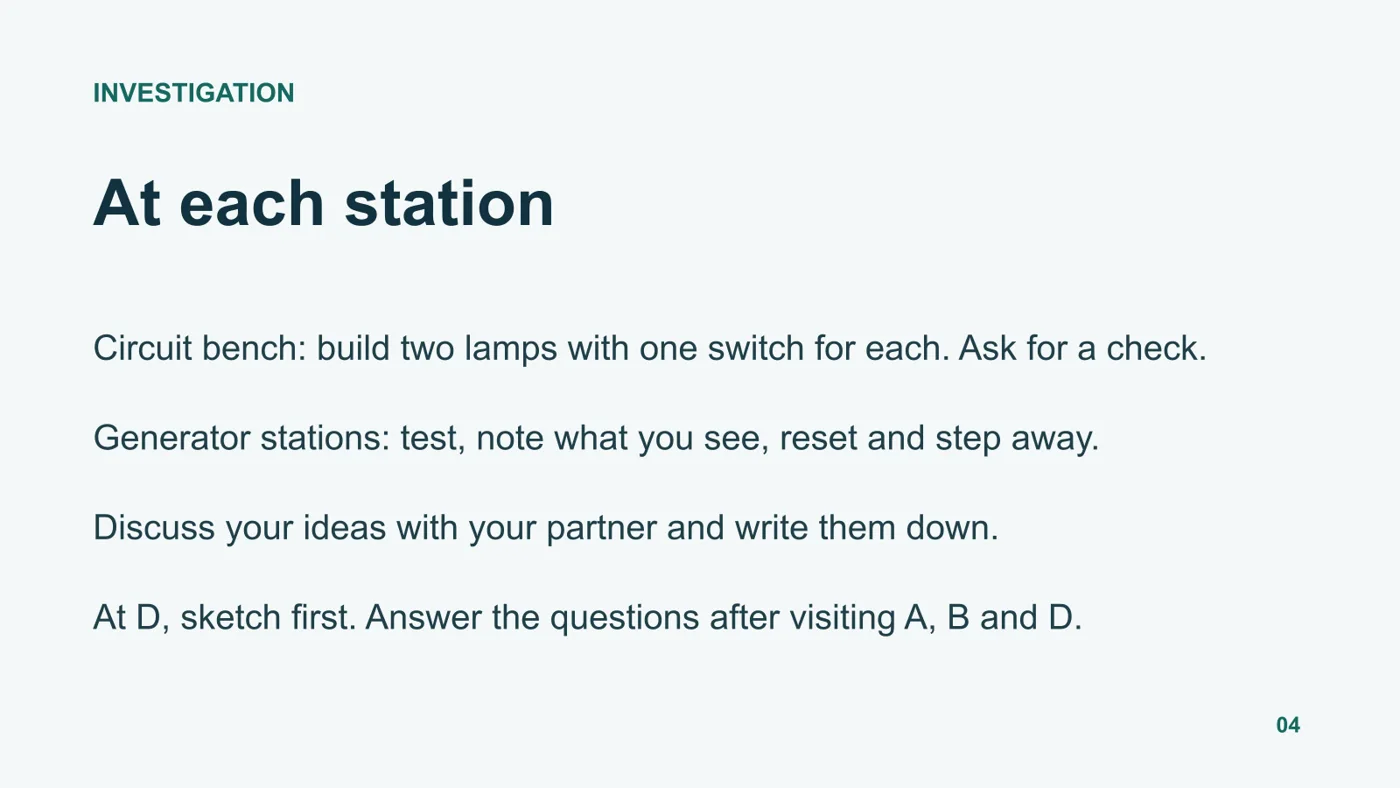
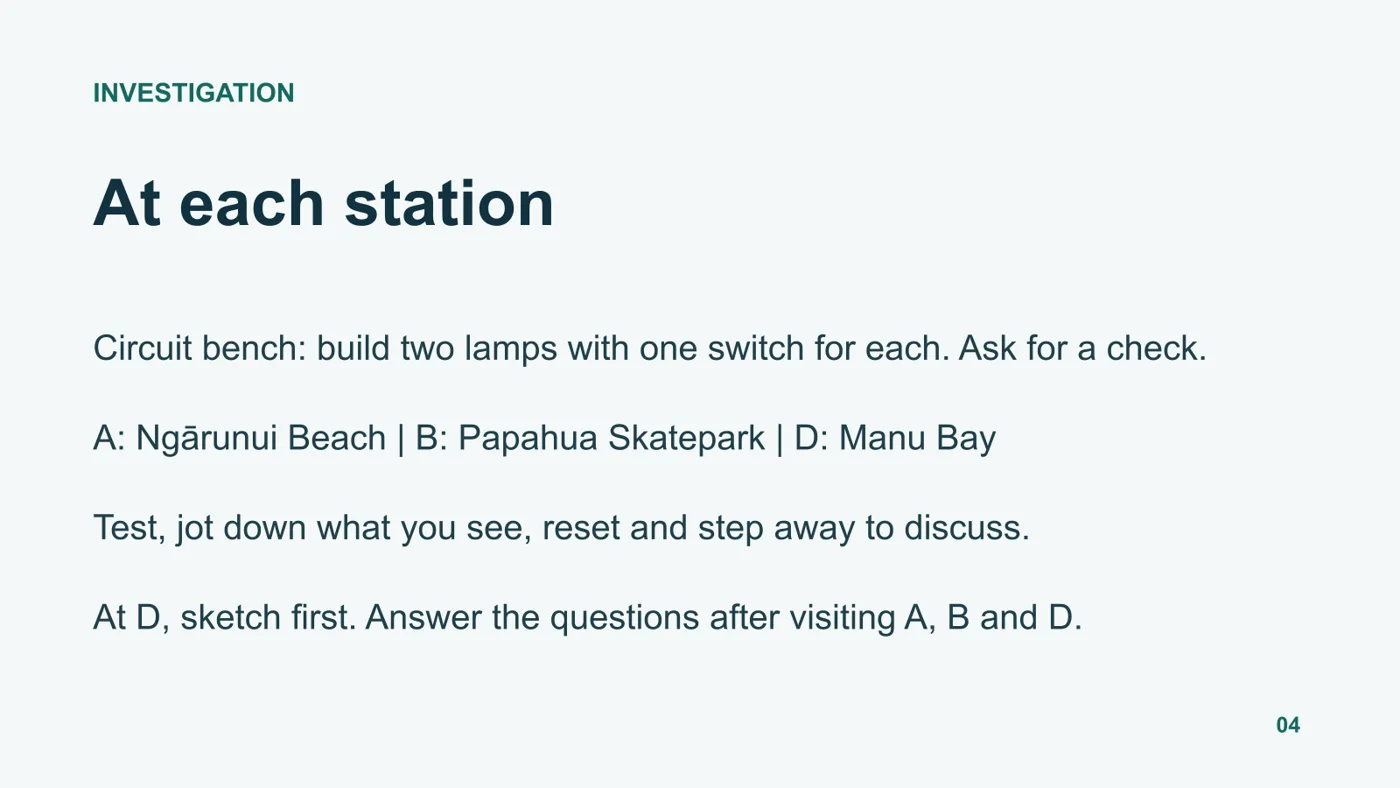
Sync ProfEx portfolio from Google Drive

Changed region(s): [[0.0614, 0.6396, 0.7371, 0.7005], [0.0614, 0.5178, 0.7986, 0.5787]]

diff --git a/doc-1TlRge3vHrb2nAxlmYoItLTyYuOJHQyqPJMQLUgPBcEo.html b/doc-1TlRge3vHrb2nAxlmYoItLTyYuOJHQyqPJMQLUgPBcEo.html
@@ -14,19 +14,19 @@
 <h2>Lesson 09: How do we generate electricity?</h2><p>Year 10 Science 1 · 11 Nov 2026 · Planned</p></div>
 <article class="native-reflection"><div class="reflection-prose"><p>Year 10 Science | 55 minutes</p>
 <h3>Learning intention</h3>
-<p>Use practical observations to explain how movement can produce a voltage.</p>
+<p>Use practical evidence to explain either how two lamps can be switched independently or how movement can produce a voltage.</p>
 <h3>Success criteria</h3>
 <ul>
-<li>Record what changes across two or more trials at each practical setup.</li>
+<li>Circuit pathway: build and test two lamps with one switch for each lamp. Generator pathway: record the meter readings at A and B.</li>
 <li>Use the opened motor to connect observations from the moving magnet and the hand-turned motor.</li>
 <li>Use one observation to explain part of how a wind turbine generates electricity.</li>
 </ul>
 <h3>Preparation</h3>
 <p>Set up and test two oscillating-magnet and coil stations with voltmeters, two DC motors connected to voltmeters, and one opened, unpowered motor. Mark each station A, B or D to match the worksheet. Secure the magnet and motor apparatus and check the meter response before class.</p>
-<p>Arrange tables away from the benches for pair discussions. Print one double-sided worksheet per pair.</p>
+<p>Arrange chairs in a semicircle. Prepare two-switch, two-lamp kits with circuit guide boards at separate benches. Check each kit and set out the existing switching worksheet and the generator worksheet.</p>
 <p>Whakataukī: E koekoe te tūī, e ketekete te kākā, e kūkū te kererū. The tūī chatters, the kākā squawks, and the kererū coos. Read it aloud. Ask pairs why the saying gives each bird a different sound and what that might say about people. Hear two interpretations.</p>
 <h3>Teaching sequence</h3>
-<table class="document-table"><tr><td><p>Teacher activity</p></td><td><p>Student activity</p></td></tr><tr><td><p>Arrival and whakataukī | 7 minPlay Tour a Wind Turbine with sound as students arrive. https://youtu.be/5vj6GwVhQT0Pause the video, lead the whakataukī and hand out the worksheets.</p></td><td><p>Watch the turbine tour while settling. Read the whakataukī and collect a worksheet.</p></td></tr><tr><td><p>Station investigation | 33 minDirect pairs to free setups. Form one trio if needed. Check how students are using the apparatus and listen to their initial explanations. Ask “What did you see that makes you think that?”</p></td><td><p>Visit A, B and D. Use either copy of A or B. At each bench, do the test or sketch, note what you see, reset the equipment and move away to discuss and write. Choose another station if one is busy.</p></td></tr><tr><td><p>Connect observations | 5 minBring pairs back to their worksheets and invite them to compare A, B and D.</p></td><td><p>After visiting all three station types, use your sketch of the opened motor to answer the two comparison questions.</p></td></tr><tr><td><p>Plenary | 10 minGive pairs two minutes to prepare a Te Uku explanation. Hear two pairs and ask the class which observations support each explanation. Use up to one minute to clarify the relationship between movement and voltage if needed. Collect individual responses.</p></td><td><p>Explain what the wind does at a Te Uku turbine that your hand did at B. Use A or D as evidence. Individually name one setup that produced a voltage and give one observation to support your answer.</p></td></tr></table></div></article>
+<table class="document-table"><tr><td><p>Teacher activity</p></td><td><p>Student activity</p></td></tr><tr><td><p>Arrival and hook | 10 minArrange seats in a semicircle. Play Tour a Wind Turbine with sound as students arrive. https://youtu.be/5vj6GwVhQT0Lead the bird-call whakataukī and hear two responses. Run a five-minute hook: hold up a small motor, pause, and ask, “What if this could make electricity without a battery?” Ask pairs what they would look for on the meter. Connect their ideas to the turbine and invite them to test their predictions.</p></td><td><p>Watch the turbine tour. Discuss the whakataukī. Look at the motor, offer a prediction and say what you would look for on the meter.</p></td></tr><tr><td><p>Practical pathways | 35 minGive students who missed or did not finish Lesson 08 the two-lamp kits and circuit guide boards. Direct students who completed it to A, B and D. Circulate between the benches, check circuits before testing, and ask two or three pairs at a time what they saw, what they think happened and why. Move circuit groups to the stations once they have tested both switches.</p></td><td><p>Build and test two lamps with one switch for each lamp using the guide board, or begin the generator worksheet if you completed the challenge last lesson. At A, B and D, record what you see and step away to discuss. Answer the motor comparison after visiting all three stations.</p></td></tr><tr><td><p>Apply observations | 5 minSubject to discussion with my mentor teacher, offer early finishers a turbine design sketch. Ask them to label how wind would turn the motor and propose how they would test it.</p></td><td><p>Use the station observations to explain how wind could turn the motor. If invited, sketch a turbine and describe one way to test the design.</p></td></tr><tr><td><p>Plenary | 5 minHear one pair from each pathway. Ask how they tested independent switching or what changed the meter reading. Connect the motor to the turbine video and collect one short individual response.</p></td><td><p>Share one finding from your pathway. Write one observation that shows the switches work independently or that movement produced a voltage.</p></td></tr></table></div></article>
 </div></section></main>
 <footer><div class="shell footinner"><strong>Haaris Jamil · ProfEx 1</strong>
 <a href="teaching.html">Return to portfolio ↑</a></div></footer>

diff --git a/goal-2.html b/goal-2.html
@@ -48,7 +48,11 @@
 <figure id="standing-wave-video" class="goal-video"><video controls playsinline preload="metadata" poster="assets/drive/1U8DLa3GjbBcpiTLSEY6MZWDG5EEThvZU/Goal-2---Standing-wave-setup-and-piano-strings.JPG"><source src="assets/drive/1FVVPuAvzmVbqKii8oZpPEILcLx9CoBKD/Goal-2---Standing-waves-demonstration.mp4" type="video/mp4">Your browser does not support the embedded video.</video><figcaption>Standing-wave demonstration using the vibration generator and signal generator.</figcaption></figure>
 <p>Electromagnetic induction: oscillating magnet and coil</p>
 <p>I tested a working model that makes electromagnetic induction visible through a voltmeter reading. Students will compare the reading when the magnet is stationary with the reading when it oscillates relative to the coil. The video documents preparation and testing for a planned Year 10 station, not evidence of student learning. I will use students’ observations and explanations to evaluate how well the model supports their understanding.</p>
-<p><a href="file-12QlV47IeroEGIQLKfvZJFhgAwvc2N3sD.html"><u>Video: Oscillating magnet and coil</u></a></p></div></article><nav class="topic-pager" aria-label="Adjacent sections"><a href="goal-1.html">Previous: Goal 1</a><a href="goal-3.html">Next: Goal 3</a></nav>
+<p><a href="file-12QlV47IeroEGIQLKfvZJFhgAwvc2N3sD.html"><u>Video: Oscillating magnet and coil</u></a></p>
+<p>Colour-coded circuit guide | 10 November 2026</p>
+<p>I drew two independently switched lamp branches on thick card using standard circuit symbols. Red and black distinguish the active and neutral paths. Students can use the drawing to trace each branch and decide which connections to make with the classroom kit.</p>
+<p>I designed the guide as an additional way to access the same practical, particularly for students who missed the previous lesson or found the wiring difficult. In Lesson 09, students who need more practice will use the guide while those who completed the challenge move on to the generator stations. I will look for whether students can trace a branch and test each switch with less prompting.</p>
+<p><img class="document-image" loading="lazy" src="assets/doc-images/1Lb6tJF_dCHF31E100dqt7PDt3U3sCN78CkhrmKIyzzY/kix.psi3e5l0q10h.webp" alt="Photograph accompanying the portfolio evidence"></p></div></article><nav class="topic-pager" aria-label="Adjacent sections"><a href="goal-1.html">Previous: Goal 1</a><a href="goal-3.html">Next: Goal 3</a></nav>
 </div></section></main>
 <footer><div class="shell footinner"><strong>Haaris Jamil · ProfEx 1</strong>
 <a href="goals.html">Return to portfolio ↑</a></div></footer>

diff --git a/sync-audit.html b/sync-audit.html
@@ -12,7 +12,7 @@
 <main id="main"><section class="section"><div class="shell">
 <div class="sectionhead"><p class="eyebrow">Professional Experience 1</p>
 <h2>Portfolio synchronisation audit</h2><p>Generated from the most recent successful folder scan.</p></div>
-<article class="native-reflection"><div class="reflection-prose"><p>Source files found: 106. Discovered and linked: 106. Unable to update in this run: 0. Not configured to mirror: 0.</p><h3>1. Could not update</h3><p>No failed updates recorded.</p><h3>2. Not set to sync automatically</h3><p>All discovered supported files have a sync path.</p><h3>Partial presentation limitations</h3><p>No partial-content limitations recorded.</p></div></article>
+<article class="native-reflection"><div class="reflection-prose"><p>Source files found: 107. Discovered and linked: 107. Unable to update in this run: 2. Not configured to mirror: 0.</p><h3>1. Could not update</h3><ul><li>04 Weekly Reflections/Week 7: Published version is empty</li><li>06 Teaching &amp; Planning/01 Year 10 Science - Electricity/03 Lesson Slides/Y10 Science 2/Lesson 04: Current and its measurement - Y10 Science 2: Slide thumbnail download failed: HTTP 502</li></ul><h3>2. Not set to sync automatically</h3><p>All discovered supported files have a sync path.</p><h3>Partial presentation limitations</h3><p>No partial-content limitations recorded.</p></div></article>
 </div></section></main>
 <footer><div class="shell footinner"><strong>Haaris Jamil · ProfEx 1</strong>
 <a href="index.html">Return to portfolio ↑</a></div></footer>
